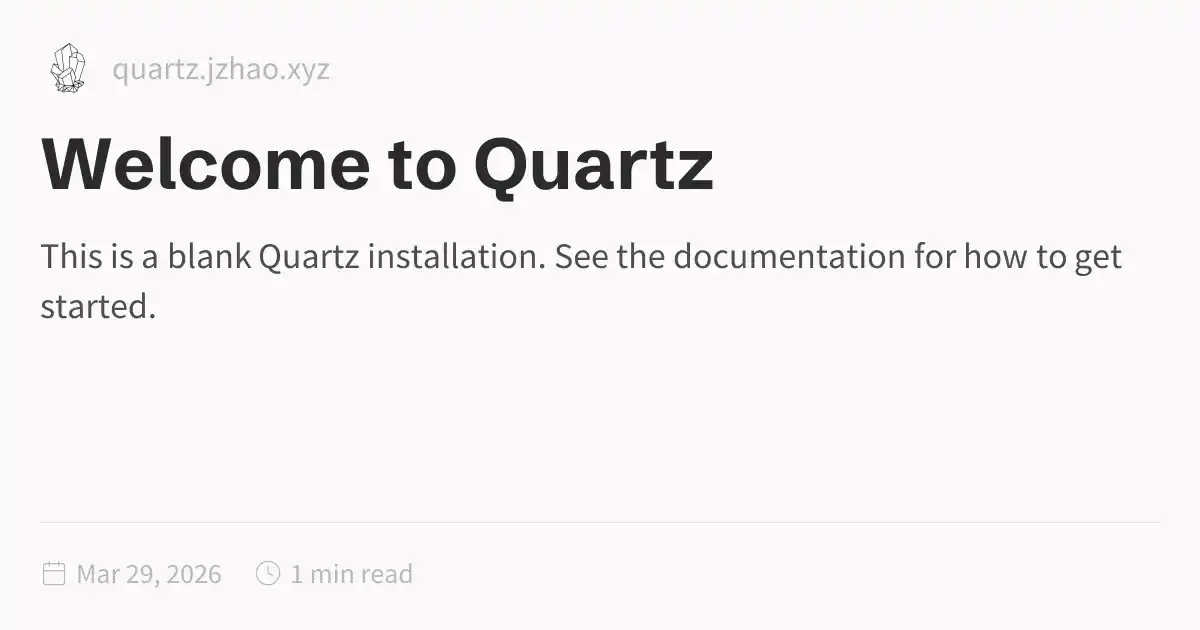
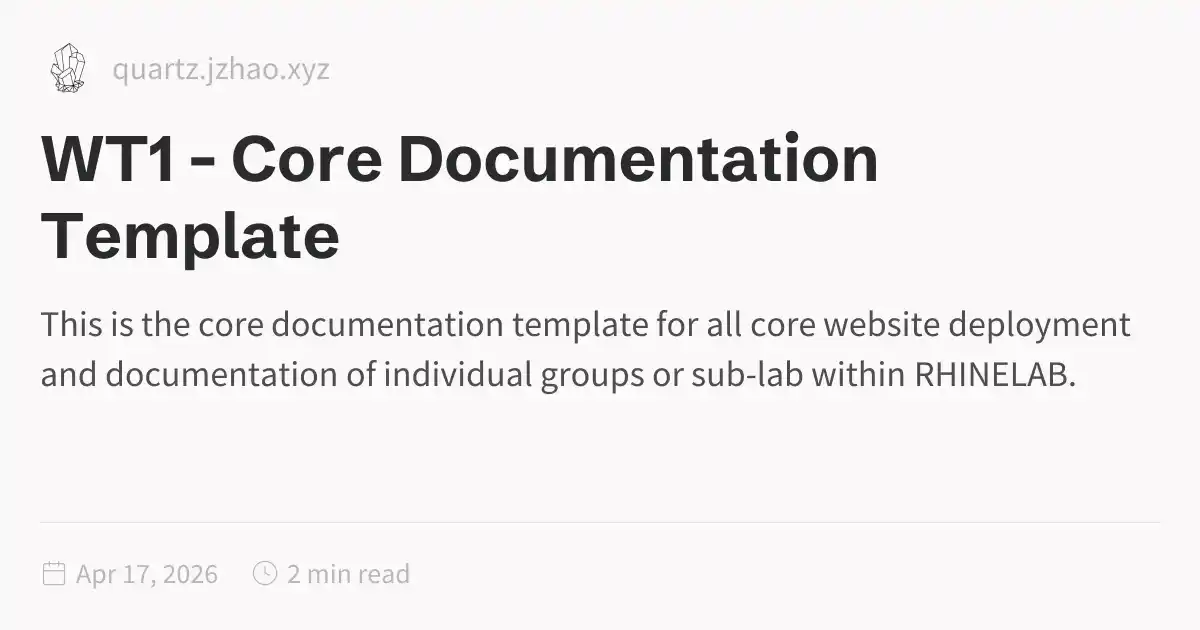
fix

diff --git a/public/index.html b/public/index.html
@@ -1,5 +1,5 @@
 <!DOCTYPE html>
-<html lang="en" dir="ltr"><head><title>Welcome to Quartz</title><meta charset="utf-8"/><link rel="preconnect" href="https://fonts.googleapis.com"/><link rel="preconnect" href="https://fonts.gstatic.com"/><link rel="stylesheet" href="https://fonts.googleapis.com/css2?family=Schibsted Grotesk:wght@400;700&amp;family=Source Sans Pro:ital,wght@0,400;0,600;1,400;1,600&amp;family=IBM Plex Mono:wght@400;600&amp;display=swap"/><link rel="preconnect" href="https://cdnjs.cloudflare.com" crossorigin="anonymous"/><meta name="viewport" content="width=device-width, initial-scale=1.0"/><meta name="og:site_name" content="Quartz 4"/><meta property="og:title" content="Welcome to Quartz"/><meta property="og:type" content="website"/><meta name="twitter:card" content="summary_large_image"/><meta name="twitter:title" content="Welcome to Quartz"/><meta name="twitter:description" content="This is a blank Quartz installation. See the documentation for how to get started."/><meta property="og:description" content="This is a blank Quartz installation. See the documentation for how to get started."/><meta property="og:image:alt" content="This is a blank Quartz installation. See the documentation for how to get started."/><meta property="twitter:domain" content="quartz.jzhao.xyz"/><meta property="og:url" content="https://quartz.jzhao.xyz/index"/><meta property="twitter:url" content="https://quartz.jzhao.xyz/index"/><link rel="icon" href="./static/icon.png"/><meta name="description" content="This is a blank Quartz installation. See the documentation for how to get started."/><meta name="generator" content="Quartz"/><link href="./index.css" rel="stylesheet" type="text/css" data-persist="true"/><style>.expand-button {
+<html lang="en" dir="ltr"><head><title>WT1 - Core Documentation Template</title><meta charset="utf-8"/><link rel="preconnect" href="https://fonts.googleapis.com"/><link rel="preconnect" href="https://fonts.gstatic.com"/><link rel="stylesheet" href="https://fonts.googleapis.com/css2?family=Schibsted Grotesk:wght@400;700&amp;family=Source Sans Pro:ital,wght@0,400;0,600;1,400;1,600&amp;family=IBM Plex Mono:wght@400;600&amp;display=swap"/><link rel="preconnect" href="https://cdnjs.cloudflare.com" crossorigin="anonymous"/><meta name="viewport" content="width=device-width, initial-scale=1.0"/><meta name="og:site_name" content="Quartz 4"/><meta property="og:title" content="WT1 - Core Documentation Template"/><meta property="og:type" content="website"/><meta name="twitter:card" content="summary_large_image"/><meta name="twitter:title" content="WT1 - Core Documentation Template"/><meta name="twitter:description" content="This is the core documentation template for all core website deployment and documentation of individual groups or sub-lab within RHINELAB."/><meta property="og:description" content="This is the core documentation template for all core website deployment and documentation of individual groups or sub-lab within RHINELAB."/><meta property="og:image:alt" content="This is the core documentation template for all core website deployment and documentation of individual groups or sub-lab within RHINELAB."/><meta property="twitter:domain" content="quartz.jzhao.xyz"/><meta property="og:url" content="https://quartz.jzhao.xyz/index"/><meta property="twitter:url" content="https://quartz.jzhao.xyz/index"/><link rel="icon" href="./static/icon.png"/><meta name="description" content="This is the core documentation template for all core website deployment and documentation of individual groups or sub-lab within RHINELAB."/><meta name="generator" content="Quartz"/><link href="./index.css" rel="stylesheet" type="text/css" data-persist="true"/><style>.expand-button {
   position: absolute;
   display: flex;
   float: right;
@@ -115,8 +115,9 @@ pre:hover > .expand-button {
   padding: 0 12px;
   font-size: 14px;
 }
[1 lines of base64/hex data omitted]
-See the <a href="https://quartz.jzhao.xyz" class="external">documentation<svg aria-hidden="true" class="external-icon" style="max-width:0.8em;max-height:0.8em;" viewBox="0 0 512 512"><path d="M320 0H288V64h32 82.7L201.4 265.4 178.7 288 224 333.3l22.6-22.6L448 109.3V192v32h64V192 32 0H480 320zM32 32H0V64 480v32H32 456h32V480 352 320H424v32 96H64V96h96 32V32H160 32z"></path></svg></a> for how to get started.</p></article><hr/><div class="page-footer"></div></div><div class="right sidebar"><div class="graph"><h3>Graph View</h3><div class="graph-outer"><div class="graph-container" data-cfg="{&quot;drag&quot;:true,&quot;zoom&quot;:true,&quot;depth&quot;:1,&quot;scale&quot;:1.1,&quot;repelForce&quot;:0.5,&quot;centerForce&quot;:0.3,&quot;linkDistance&quot;:30,&quot;fontSize&quot;:0.6,&quot;opacityScale&quot;:1,&quot;showTags&quot;:true,&quot;removeTags&quot;:[],&quot;focusOnHover&quot;:false,&quot;enableRadial&quot;:false}"></div><button class="global-graph-icon" aria-label="Global Graph"><svg version="1.1" xmlns="http://www.w3.org/2000/svg" xmlns:xlink="http://www.w3.org/1999/xlink" x="0px" y="0px" viewBox="0 0 55 55" fill="currentColor" xml:space="preserve"><path d="M49,0c-3.309,0-6,2.691-6,6c0,1.035,0.263,2.009,0.726,2.86l-9.829,9.829C32.542,17.634,30.846,17,29,17
[1 lines of base64/hex data omitted]
+<p>The template is easy to use. Right now, almost all contents would be stored in <code>\content</code> folder, and nested around. Unlike other template, this time, the file is plain <code>.md</code> Markdown, not flavoured Markdown like <code>.qmd</code>. The syntax by then is almost the same. For information regarding different features of this template and Quartz architecture, see in the main website, for example, here’s an entry on <a href="https://quartz.jzhao.xyz/features/Latex" class="external">LaTeX and mathematical notations<svg aria-hidden="true" class="external-icon" style="max-width:0.8em;max-height:0.8em;" viewBox="0 0 512 512"><path d="M320 0H288V64h32 82.7L201.4 265.4 178.7 288 224 333.3l22.6-22.6L448 109.3V192v32h64V192 32 0H480 320zM32 32H0V64 480v32H32 456h32V480 352 320H424v32 96H64V96h96 32V32H160 32z"></path></svg></a>, which proves helpful for technical notes of this caliber.</p>
+<p>The system is also of mind with similarity of purpose like <strong>Obsidian.md</strong>, as many in the laboratory is familiar with. It provides features like <strong>backlinks</strong>, and so on, which are useful for knowledge base and organizational system. For usage of Obsidian, see <a href="https://docs.obsidian.md/Home" class="external">this developer page<svg aria-hidden="true" class="external-icon" style="max-width:0.8em;max-height:0.8em;" viewBox="0 0 512 512"><path d="M320 0H288V64h32 82.7L201.4 265.4 178.7 288 224 333.3l22.6-22.6L448 109.3V192v32h64V192 32 0H480 320zM32 32H0V64 480v32H32 456h32V480 352 320H424v32 96H64V96h96 32V32H160 32z"></path></svg></a> for certain features (I know someone who would tinker with this there), and the <a href="https://obsidian.md/help/" class="external">basic help page dubbed as also tutorial<svg aria-hidden="true" class="external-icon" style="max-width:0.8em;max-height:0.8em;" viewBox="0 0 512 512"><path d="M320 0H288V64h32 82.7L201.4 265.4 178.7 288 224 333.3l22.6-22.6L448 109.3V192v32h64V192 32 0H480 320zM32 32H0V64 480v32H32 456h32V480 352 320H424v32 96H64V96h96 32V32H160 32z"></path></svg></a>. Most of the features are transferable, but refer to Quartz documentation for certain restriction in conversion of platforms.</p></article><hr/><div class="page-footer"></div></div><div class="right sidebar"><div class="graph"><h3>Graph View</h3><div class="graph-outer"><div class="graph-container" data-cfg="{&quot;drag&quot;:true,&quot;zoom&quot;:true,&quot;depth&quot;:1,&quot;scale&quot;:1.1,&quot;repelForce&quot;:0.5,&quot;centerForce&quot;:0.3,&quot;linkDistance&quot;:30,&quot;fontSize&quot;:0.6,&quot;opacityScale&quot;:1,&quot;showTags&quot;:true,&quot;removeTags&quot;:[],&quot;focusOnHover&quot;:false,&quot;enableRadial&quot;:false}"></div><button class="global-graph-icon" aria-label="Global Graph"><svg version="1.1" xmlns="http://www.w3.org/2000/svg" xmlns:xlink="http://www.w3.org/1999/xlink" x="0px" y="0px" viewBox="0 0 55 55" fill="currentColor" xml:space="preserve"><path d="M49,0c-3.309,0-6,2.691-6,6c0,1.035,0.263,2.009,0.726,2.86l-9.829,9.829C32.542,17.634,30.846,17,29,17
                 s-3.542,0.634-4.898,1.688l-7.669-7.669C16.785,10.424,17,9.74,17,9c0-2.206-1.794-4-4-4S9,6.794,9,9s1.794,4,4,4
                 c0.74,0,1.424-0.215,2.019-0.567l7.669,7.669C21.634,21.458,21,23.154,21,25s0.634,3.542,1.688,4.897L10.024,42.562
                 C8.958,41.595,7.549,41,6,41c-3.309,0-6,2.691-6,6s2.691,6,6,6s6-2.691,6-6c0-1.035-0.263-2.009-0.726-2.86l12.829-12.829
@@ -128,4 +129,8 @@ See the <a href="https://quartz.jzhao.xyz" class="external">documentation<svg ar
                 s1.794-4,4-4S33,46.794,33,49z M29,31c-3.309,0-6-2.691-6-6s2.691-6,6-6s6,2.691,6,6S32.309,31,29,31z M47,41c0,1.103-0.897,2-2,2
                 s-2-0.897-2-2s0.897-2,2-2S47,39.897,47,41z M49,10c-2.206,0-4-1.794-4-4s1.794-4,4-4s4,1.794,4,4S51.206,10,49,10z"></path></svg></button></div><div class="global-graph-outer"><div class="global-graph-container" data-cfg="{&quot;drag&quot;:true,&quot;zoom&quot;:true,&quot;depth&quot;:-1,&quot;scale&quot;:0.9,&quot;repelForce&quot;:0.5,&quot;centerForce&quot;:0.2,&quot;linkDistance&quot;:30,&quot;fontSize&quot;:0.6,&quot;opacityScale&quot;:1,&quot;showTags&quot;:true,&quot;removeTags&quot;:[],&quot;focusOnHover&quot;:true,&quot;enableRadial&quot;:true}"></div></div></div></div><footer class><p>Created with <a href="https://quartz.jzhao.xyz/">Quartz v4.5.2</a> © 2026</p><ul><li><a href="https://github.com/jackyzha0/quartz">GitHub</a></li><li><a href="https://discord.gg/cRFFHYye7t">Discord Community</a></li></ul></footer></div></div></body><script type="application/javascript" data-persist="true">function n(){let t=this.parentElement;t.classList.toggle("is-collapsed");let e=t.getElementsByClassName("callout-content")[0];if(!e)return;let l=t.classList.contains("is-collapsed");e.style.gridTemplateRows=l?"0fr":"1fr"}function c(){let t=document.getElementsByClassName("callout is-collapsible");for(let e of t){let l=e.getElementsByClassName("callout-title")[0],s=e.getElementsByClassName("callout-content")[0];if(!l||!s)continue;l.addEventListener("click",n),window.addCleanup(()=>l.removeEventListener("click",n));let o=e.classList.contains("is-collapsed");s.style.gridTemplateRows=o?"0fr":"1fr"}}document.addEventListener("nav",c);
 </script><script type="module" data-persist="true">function E(a,e){if(!a)return;function t(o){o.target===this&&(o.preventDefault(),o.stopPropagation(),e())}function n(o){o.key.startsWith("Esc")&&(o.preventDefault(),e())}a?.addEventListener("click",t),window.addCleanup(()=>a?.removeEventListener("click",t)),document.addEventListener("keydown",n),window.addCleanup(()=>document.removeEventListener("keydown",n))}function f(a){for(;a.firstChild;)a.removeChild(a.firstChild)}var m=class{constructor(e,t){this.container=e;this.content=t;this.setupEventListeners(),this.setupNavigationControls(),this.resetTransform()}isDragging=!1;startPan={x:0,y:0};currentPan={x:0,y:0};scale=1;MIN_SCALE=.5;MAX_SCALE=3;cleanups=[];setupEventListeners(){let e=this.onMouseDown.bind(this),t=this.onMouseMove.bind(this),n=this.onMouseUp.bind(this),o=this.onTouchStart.bind(this),r=this.onTouchMove.bind(this),i=this.onTouchEnd.bind(this),s=this.resetTransform.bind(this);this.container.addEventListener("mousedown",e),document.addEventListener("mousemove",t),document.addEventListener("mouseup",n),this.container.addEventListener("touchstart",o,{passive:!1}),document.addEventListener("touchmove",r,{passive:!1}),document.addEventListener("touchend",i),window.addEventListener("resize",s),this.cleanups.push(()=>this.container.removeEventListener("mousedown",e),()=>document.removeEventListener("mousemove",t),()=>document.removeEventListener("mouseup",n),()=>this.container.removeEventListener("touchstart",o),()=>document.removeEventListener("touchmove",r),()=>document.removeEventListener("touchend",i),()=>window.removeEventListener("resize",s))}cleanup(){for(let e of this.cleanups)e()}setupNavigationControls(){let e=document.createElement("div");e.className="mermaid-controls";let t=this.createButton("+",()=>this.zoom(.1)),n=this.createButton("-",()=>this.zoom(-.1)),o=this.createButton("Reset",()=>this.resetTransform());e.appendChild(n),e.appendChild(o),e.appendChild(t),this.container.appendChild(e)}createButton(e,t){let n=document.createElement("button");return n.textContent=e,n.className="mermaid-control-button",n.addEventListener("click",t),window.addCleanup(()=>n.removeEventListener("click",t)),n}onMouseDown(e){e.button===0&&(this.isDragging=!0,this.startPan={x:e.clientX-this.currentPan.x,y:e.clientY-this.currentPan.y},this.container.style.cursor="grabbing")}onMouseMove(e){this.isDragging&&(e.preventDefault(),this.currentPan={x:e.clientX-this.startPan.x,y:e.clientY-this.startPan.y},this.updateTransform())}onMouseUp(){this.isDragging=!1,this.container.style.cursor="grab"}onTouchStart(e){if(e.touches.length!==1)return;this.isDragging=!0;let t=e.touches[0];this.startPan={x:t.clientX-this.currentPan.x,y:t.clientY-this.currentPan.y}}onTouchMove(e){if(!this.isDragging||e.touches.length!==1)return;e.preventDefault();let t=e.touches[0];this.currentPan={x:t.clientX-this.startPan.x,y:t.clientY-this.startPan.y},this.updateTransform()}onTouchEnd(){this.isDragging=!1}zoom(e){let t=Math.min(Math.max(this.scale+e,this.MIN_SCALE),this.MAX_SCALE),n=this.content.getBoundingClientRect(),o=n.width/2,r=n.height/2,i=t-this.scale;this.currentPan.x-=o*i,this.currentPan.y-=r*i,this.scale=t,this.updateTransform()}updateTransform(){this.content.style.transform=`translate(${this.currentPan.x}px, ${this.currentPan.y}px) scale(${this.scale})`}resetTransform(){let t=this.content.querySelector("svg").getBoundingClientRect(),n=t.width/this.scale,o=t.height/this.scale;this.scale=1,this.currentPan={x:(this.container.clientWidth-n)/2,y:(this.container.clientHeight-o)/2},this.updateTransform()}},T=["--secondary","--tertiary","--gray","--light","--lightgray","--highlight","--dark","--darkgray","--codeFont"],y;document.addEventListener("nav",async()=>{let e=document.querySelector(".center").querySelectorAll("code.mermaid");if(e.length===0)return;y||=await import("https://cdnjs.cloudflare.com/ajax/libs/mermaid/11.4.0/mermaid.esm.min.mjs");let t=y.default,n=new WeakMap;for(let r of e)n.set(r,r.innerText);async function o(){for(let s of e){s.removeAttribute("data-processed");let c=n.get(s);c&&(s.innerHTML=c)}let r=T.reduce((s,c)=>(s[c]=window.getComputedStyle(document.documentElement).getPropertyValue(c),s),{}),i=document.documentElement.getAttribute("saved-theme")==="dark";t.initialize({startOnLoad:!1,securityLevel:"loose",theme:i?"dark":"base",themeVariables:{fontFamily:r["--codeFont"],primaryColor:r["--light"],primaryTextColor:r["--darkgray"],primaryBorderColor:r["--tertiary"],lineColor:r["--darkgray"],secondaryColor:r["--secondary"],tertiaryColor:r["--tertiary"],clusterBkg:r["--light"],edgeLabelBackground:r["--highlight"]}}),await t.run({nodes:e})}await o(),document.addEventListener("themechange",o),window.addCleanup(()=>document.removeEventListener("themechange",o));for(let r=0;r<e.length;r++){let v=function(){let g=l.querySelector("#mermaid-space"),h=l.querySelector(".mermaid-content");if(!h)return;f(h);let w=i.querySelector("svg").cloneNode(!0);h.appendChild(w),l.classList.add("active"),g.style.cursor="grab",u=new m(g,h)},M=function(){l.classList.remove("active"),u?.cleanup(),u=null},i=e[r],s=i.parentElement,c=s.querySelector(".clipboard-button"),d=s.querySelector(".expand-button"),p=window.getComputedStyle(c),L=c.offsetWidth+parseFloat(p.marginLeft||"0")+parseFloat(p.marginRight||"0");d.style.right=`calc(${L}px + 0.3rem)`,s.prepend(d);let l=s.querySelector("#mermaid-container");if(!l)return;let u=null;d.addEventListener("click",v),E(l,M),window.addCleanup(()=>{u?.cleanup(),d.removeEventListener("click",v)})}});
-</script><script src="https://cdn.jsdelivr.net/npm/katex@0.16.11/dist/contrib/copy-tex.min.js" type="application/javascript" data-persist="true"></script><script src="./postscript.js" type="module" data-persist="true"></script></html>
+</script><script src="https://cdn.jsdelivr.net/npm/katex@0.16.11/dist/contrib/copy-tex.min.js" type="application/javascript" data-persist="true"></script><script type="application/javascript" data-persist="true">
+        const socket = new WebSocket('ws://localhost:3001')
+        // reload(true) ensures resources like images and scripts are fetched again in firefox
+        socket.addEventListener('message', () => document.location.reload(true))
+      </script><script src="./postscript.js" type="module" data-persist="true"></script></html>

diff --git a/public/tags/index.html b/public/tags/index.html
@@ -115,6 +115,10 @@ pre:hover > .expand-button {
   padding: 0 12px;
   font-size: 14px;
 }
[2 lines of base64/hex data omitted]
 </script><script type="module" data-persist="true">function E(a,e){if(!a)return;function t(o){o.target===this&&(o.preventDefault(),o.stopPropagation(),e())}function n(o){o.key.startsWith("Esc")&&(o.preventDefault(),e())}a?.addEventListener("click",t),window.addCleanup(()=>a?.removeEventListener("click",t)),document.addEventListener("keydown",n),window.addCleanup(()=>document.removeEventListener("keydown",n))}function f(a){for(;a.firstChild;)a.removeChild(a.firstChild)}var m=class{constructor(e,t){this.container=e;this.content=t;this.setupEventListeners(),this.setupNavigationControls(),this.resetTransform()}isDragging=!1;startPan={x:0,y:0};currentPan={x:0,y:0};scale=1;MIN_SCALE=.5;MAX_SCALE=3;cleanups=[];setupEventListeners(){let e=this.onMouseDown.bind(this),t=this.onMouseMove.bind(this),n=this.onMouseUp.bind(this),o=this.onTouchStart.bind(this),r=this.onTouchMove.bind(this),i=this.onTouchEnd.bind(this),s=this.resetTransform.bind(this);this.container.addEventListener("mousedown",e),document.addEventListener("mousemove",t),document.addEventListener("mouseup",n),this.container.addEventListener("touchstart",o,{passive:!1}),document.addEventListener("touchmove",r,{passive:!1}),document.addEventListener("touchend",i),window.addEventListener("resize",s),this.cleanups.push(()=>this.container.removeEventListener("mousedown",e),()=>document.removeEventListener("mousemove",t),()=>document.removeEventListener("mouseup",n),()=>this.container.removeEventListener("touchstart",o),()=>document.removeEventListener("touchmove",r),()=>document.removeEventListener("touchend",i),()=>window.removeEventListener("resize",s))}cleanup(){for(let e of this.cleanups)e()}setupNavigationControls(){let e=document.createElement("div");e.className="mermaid-controls";let t=this.createButton("+",()=>this.zoom(.1)),n=this.createButton("-",()=>this.zoom(-.1)),o=this.createButton("Reset",()=>this.resetTransform());e.appendChild(n),e.appendChild(o),e.appendChild(t),this.container.appendChild(e)}createButton(e,t){let n=document.createElement("button");return n.textContent=e,n.className="mermaid-control-button",n.addEventListener("click",t),window.addCleanup(()=>n.removeEventListener("click",t)),n}onMouseDown(e){e.button===0&&(this.isDragging=!0,this.startPan={x:e.clientX-this.currentPan.x,y:e.clientY-this.currentPan.y},this.container.style.cursor="grabbing")}onMouseMove(e){this.isDragging&&(e.preventDefault(),this.currentPan={x:e.clientX-this.startPan.x,y:e.clientY-this.startPan.y},this.updateTransform())}onMouseUp(){this.isDragging=!1,this.container.style.cursor="grab"}onTouchStart(e){if(e.touches.length!==1)return;this.isDragging=!0;let t=e.touches[0];this.startPan={x:t.clientX-this.currentPan.x,y:t.clientY-this.currentPan.y}}onTouchMove(e){if(!this.isDragging||e.touches.length!==1)return;e.preventDefault();let t=e.touches[0];this.currentPan={x:t.clientX-this.startPan.x,y:t.clientY-this.startPan.y},this.updateTransform()}onTouchEnd(){this.isDragging=!1}zoom(e){let t=Math.min(Math.max(this.scale+e,this.MIN_SCALE),this.MAX_SCALE),n=this.content.getBoundingClientRect(),o=n.width/2,r=n.height/2,i=t-this.scale;this.currentPan.x-=o*i,this.currentPan.y-=r*i,this.scale=t,this.updateTransform()}updateTransform(){this.content.style.transform=`translate(${this.currentPan.x}px, ${this.currentPan.y}px) scale(${this.scale})`}resetTransform(){let t=this.content.querySelector("svg").getBoundingClientRect(),n=t.width/this.scale,o=t.height/this.scale;this.scale=1,this.currentPan={x:(this.container.clientWidth-n)/2,y:(this.container.clientHeight-o)/2},this.updateTransform()}},T=["--secondary","--tertiary","--gray","--light","--lightgray","--highlight","--dark","--darkgray","--codeFont"],y;document.addEventListener("nav",async()=>{let e=document.querySelector(".center").querySelectorAll("code.mermaid");if(e.length===0)return;y||=await import("https://cdnjs.cloudflare.com/ajax/libs/mermaid/11.4.0/mermaid.esm.min.mjs");let t=y.default,n=new WeakMap;for(let r of e)n.set(r,r.innerText);async function o(){for(let s of e){s.removeAttribute("data-processed");let c=n.get(s);c&&(s.innerHTML=c)}let r=T.reduce((s,c)=>(s[c]=window.getComputedStyle(document.documentElement).getPropertyValue(c),s),{}),i=document.documentElement.getAttribute("saved-theme")==="dark";t.initialize({startOnLoad:!1,securityLevel:"loose",theme:i?"dark":"base",themeVariables:{fontFamily:r["--codeFont"],primaryColor:r["--light"],primaryTextColor:r["--darkgray"],primaryBorderColor:r["--tertiary"],lineColor:r["--darkgray"],secondaryColor:r["--secondary"],tertiaryColor:r["--tertiary"],clusterBkg:r["--light"],edgeLabelBackground:r["--highlight"]}}),await t.run({nodes:e})}await o(),document.addEventListener("themechange",o),window.addCleanup(()=>document.removeEventListener("themechange",o));for(let r=0;r<e.length;r++){let v=function(){let g=l.querySelector("#mermaid-space"),h=l.querySelector(".mermaid-content");if(!h)return;f(h);let w=i.querySelector("svg").cloneNode(!0);h.appendChild(w),l.classList.add("active"),g.style.cursor="grab",u=new m(g,h)},M=function(){l.classList.remove("active"),u?.cleanup(),u=null},i=e[r],s=i.parentElement,c=s.querySelector(".clipboard-button"),d=s.querySelector(".expand-button"),p=window.getComputedStyle(c),L=c.offsetWidth+parseFloat(p.marginLeft||"0")+parseFloat(p.marginRight||"0");d.style.right=`calc(${L}px + 0.3rem)`,s.prepend(d);let l=s.querySelector("#mermaid-container");if(!l)return;let u=null;d.addEventListener("click",v),E(l,M),window.addCleanup(()=>{u?.cleanup(),d.removeEventListener("click",v)})}});
-</script><script src="https://cdn.jsdelivr.net/npm/katex@0.16.11/dist/contrib/copy-tex.min.js" type="application/javascript" data-persist="true"></script><script src="../postscript.js" type="module" data-persist="true"></script></html>
+</script><script src="https://cdn.jsdelivr.net/npm/katex@0.16.11/dist/contrib/copy-tex.min.js" type="application/javascript" data-persist="true"></script><script type="application/javascript" data-persist="true">
+        const socket = new WebSocket('ws://localhost:3001')
+        // reload(true) ensures resources like images and scripts are fetched again in firefox
+        socket.addEventListener('message', () => document.location.reload(true))
+      </script><script src="../postscript.js" type="module" data-persist="true"></script></html>

diff --git a/public/404.html b/public/404.html
@@ -115,6 +115,10 @@ pre:hover > .expand-button {
   padding: 0 12px;
   font-size: 14px;
 }
[2 lines of base64/hex data omitted]
 </script><script type="module" data-persist="true">function E(a,e){if(!a)return;function t(o){o.target===this&&(o.preventDefault(),o.stopPropagation(),e())}function n(o){o.key.startsWith("Esc")&&(o.preventDefault(),e())}a?.addEventListener("click",t),window.addCleanup(()=>a?.removeEventListener("click",t)),document.addEventListener("keydown",n),window.addCleanup(()=>document.removeEventListener("keydown",n))}function f(a){for(;a.firstChild;)a.removeChild(a.firstChild)}var m=class{constructor(e,t){this.container=e;this.content=t;this.setupEventListeners(),this.setupNavigationControls(),this.resetTransform()}isDragging=!1;startPan={x:0,y:0};currentPan={x:0,y:0};scale=1;MIN_SCALE=.5;MAX_SCALE=3;cleanups=[];setupEventListeners(){let e=this.onMouseDown.bind(this),t=this.onMouseMove.bind(this),n=this.onMouseUp.bind(this),o=this.onTouchStart.bind(this),r=this.onTouchMove.bind(this),i=this.onTouchEnd.bind(this),s=this.resetTransform.bind(this);this.container.addEventListener("mousedown",e),document.addEventListener("mousemove",t),document.addEventListener("mouseup",n),this.container.addEventListener("touchstart",o,{passive:!1}),document.addEventListener("touchmove",r,{passive:!1}),document.addEventListener("touchend",i),window.addEventListener("resize",s),this.cleanups.push(()=>this.container.removeEventListener("mousedown",e),()=>document.removeEventListener("mousemove",t),()=>document.removeEventListener("mouseup",n),()=>this.container.removeEventListener("touchstart",o),()=>document.removeEventListener("touchmove",r),()=>document.removeEventListener("touchend",i),()=>window.removeEventListener("resize",s))}cleanup(){for(let e of this.cleanups)e()}setupNavigationControls(){let e=document.createElement("div");e.className="mermaid-controls";let t=this.createButton("+",()=>this.zoom(.1)),n=this.createButton("-",()=>this.zoom(-.1)),o=this.createButton("Reset",()=>this.resetTransform());e.appendChild(n),e.appendChild(o),e.appendChild(t),this.container.appendChild(e)}createButton(e,t){let n=document.createElement("button");return n.textContent=e,n.className="mermaid-control-button",n.addEventListener("click",t),window.addCleanup(()=>n.removeEventListener("click",t)),n}onMouseDown(e){e.button===0&&(this.isDragging=!0,this.startPan={x:e.clientX-this.currentPan.x,y:e.clientY-this.currentPan.y},this.container.style.cursor="grabbing")}onMouseMove(e){this.isDragging&&(e.preventDefault(),this.currentPan={x:e.clientX-this.startPan.x,y:e.clientY-this.startPan.y},this.updateTransform())}onMouseUp(){this.isDragging=!1,this.container.style.cursor="grab"}onTouchStart(e){if(e.touches.length!==1)return;this.isDragging=!0;let t=e.touches[0];this.startPan={x:t.clientX-this.currentPan.x,y:t.clientY-this.currentPan.y}}onTouchMove(e){if(!this.isDragging||e.touches.length!==1)return;e.preventDefault();let t=e.touches[0];this.currentPan={x:t.clientX-this.startPan.x,y:t.clientY-this.startPan.y},this.updateTransform()}onTouchEnd(){this.isDragging=!1}zoom(e){let t=Math.min(Math.max(this.scale+e,this.MIN_SCALE),this.MAX_SCALE),n=this.content.getBoundingClientRect(),o=n.width/2,r=n.height/2,i=t-this.scale;this.currentPan.x-=o*i,this.currentPan.y-=r*i,this.scale=t,this.updateTransform()}updateTransform(){this.content.style.transform=`translate(${this.currentPan.x}px, ${this.currentPan.y}px) scale(${this.scale})`}resetTransform(){let t=this.content.querySelector("svg").getBoundingClientRect(),n=t.width/this.scale,o=t.height/this.scale;this.scale=1,this.currentPan={x:(this.container.clientWidth-n)/2,y:(this.container.clientHeight-o)/2},this.updateTransform()}},T=["--secondary","--tertiary","--gray","--light","--lightgray","--highlight","--dark","--darkgray","--codeFont"],y;document.addEventListener("nav",async()=>{let e=document.querySelector(".center").querySelectorAll("code.mermaid");if(e.length===0)return;y||=await import("https://cdnjs.cloudflare.com/ajax/libs/mermaid/11.4.0/mermaid.esm.min.mjs");let t=y.default,n=new WeakMap;for(let r of e)n.set(r,r.innerText);async function o(){for(let s of e){s.removeAttribute("data-processed");let c=n.get(s);c&&(s.innerHTML=c)}let r=T.reduce((s,c)=>(s[c]=window.getComputedStyle(document.documentElement).getPropertyValue(c),s),{}),i=document.documentElement.getAttribute("saved-theme")==="dark";t.initialize({startOnLoad:!1,securityLevel:"loose",theme:i?"dark":"base",themeVariables:{fontFamily:r["--codeFont"],primaryColor:r["--light"],primaryTextColor:r["--darkgray"],primaryBorderColor:r["--tertiary"],lineColor:r["--darkgray"],secondaryColor:r["--secondary"],tertiaryColor:r["--tertiary"],clusterBkg:r["--light"],edgeLabelBackground:r["--highlight"]}}),await t.run({nodes:e})}await o(),document.addEventListener("themechange",o),window.addCleanup(()=>document.removeEventListener("themechange",o));for(let r=0;r<e.length;r++){let v=function(){let g=l.querySelector("#mermaid-space"),h=l.querySelector(".mermaid-content");if(!h)return;f(h);let w=i.querySelector("svg").cloneNode(!0);h.appendChild(w),l.classList.add("active"),g.style.cursor="grab",u=new m(g,h)},M=function(){l.classList.remove("active"),u?.cleanup(),u=null},i=e[r],s=i.parentElement,c=s.querySelector(".clipboard-button"),d=s.querySelector(".expand-button"),p=window.getComputedStyle(c),L=c.offsetWidth+parseFloat(p.marginLeft||"0")+parseFloat(p.marginRight||"0");d.style.right=`calc(${L}px + 0.3rem)`,s.prepend(d);let l=s.querySelector("#mermaid-container");if(!l)return;let u=null;d.addEventListener("click",v),E(l,M),window.addCleanup(()=>{u?.cleanup(),d.removeEventListener("click",v)})}});
-</script><script src="https://cdn.jsdelivr.net/npm/katex@0.16.11/dist/contrib/copy-tex.min.js" type="application/javascript" data-persist="true"></script><script src="/postscript.js" type="module" data-persist="true"></script></html>
+</script><script src="https://cdn.jsdelivr.net/npm/katex@0.16.11/dist/contrib/copy-tex.min.js" type="application/javascript" data-persist="true"></script><script type="application/javascript" data-persist="true">
+        const socket = new WebSocket('ws://localhost:3001')
+        // reload(true) ensures resources like images and scripts are fetched again in firefox
+        socket.addEventListener('message', () => document.location.reload(true))
+      </script><script src="/postscript.js" type="module" data-persist="true"></script></html>
